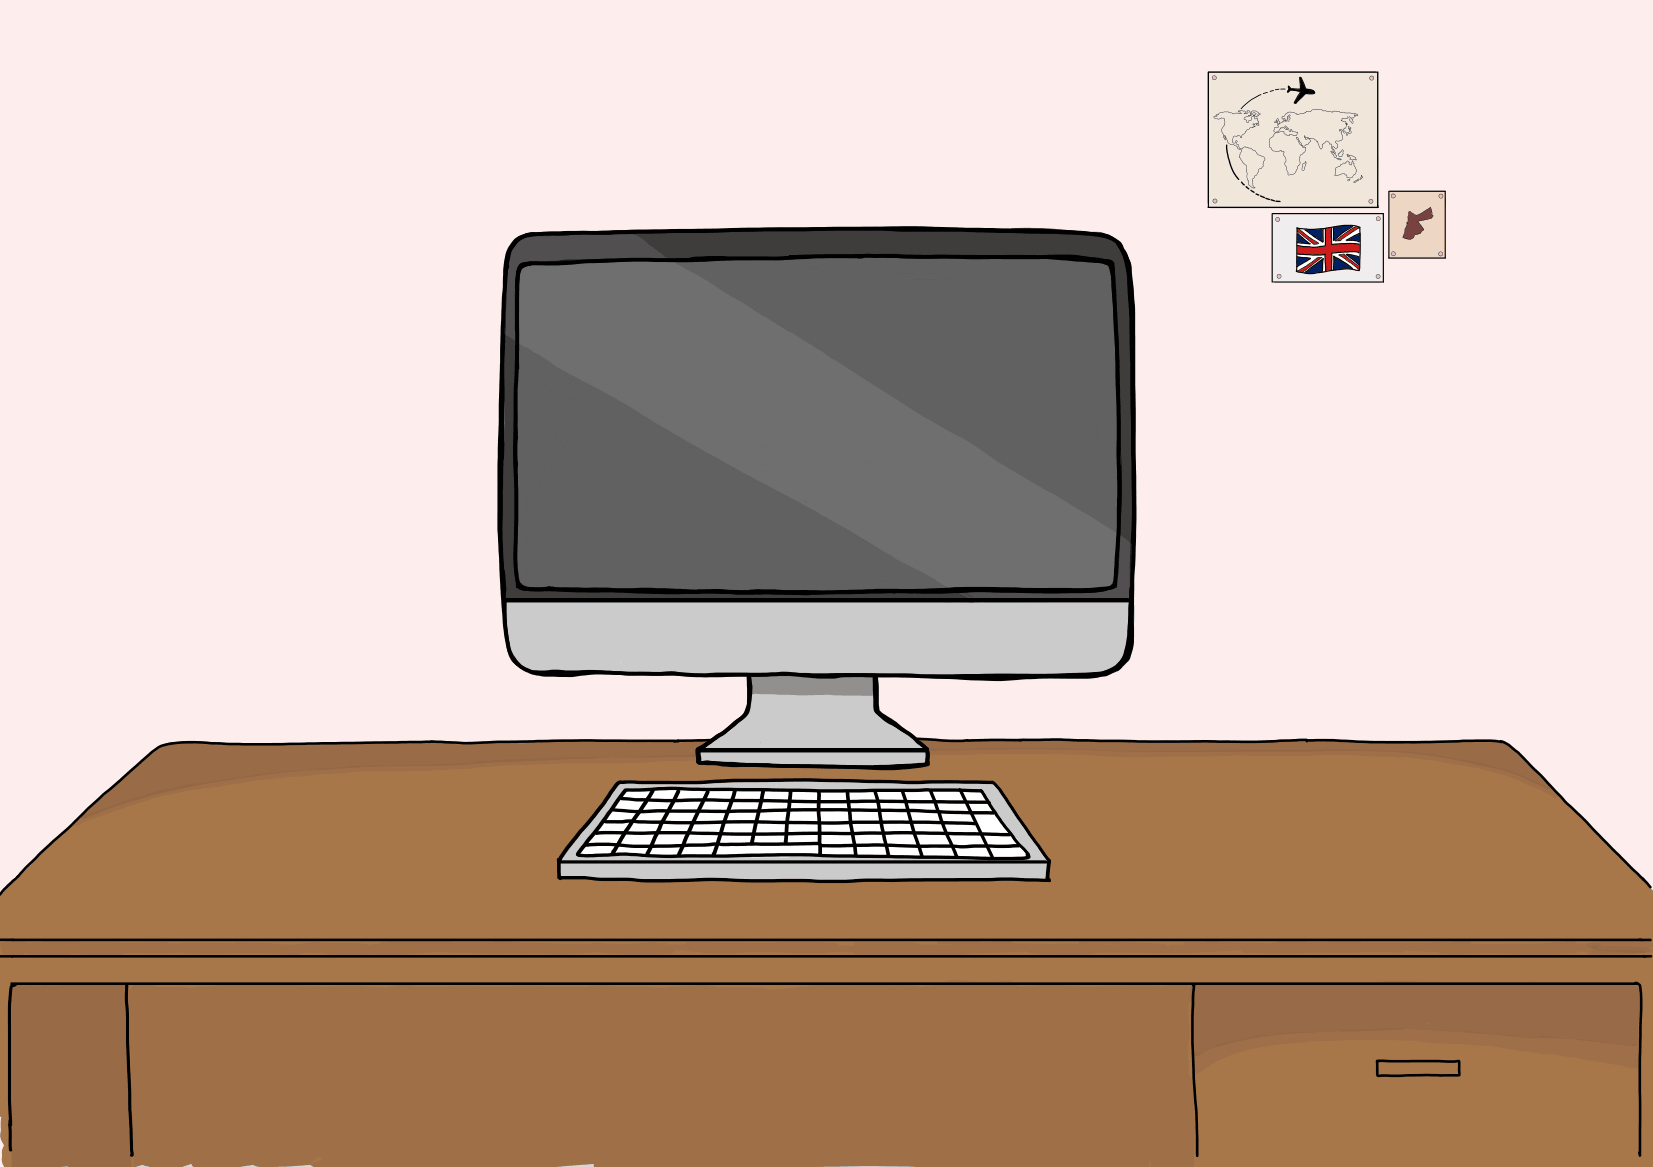
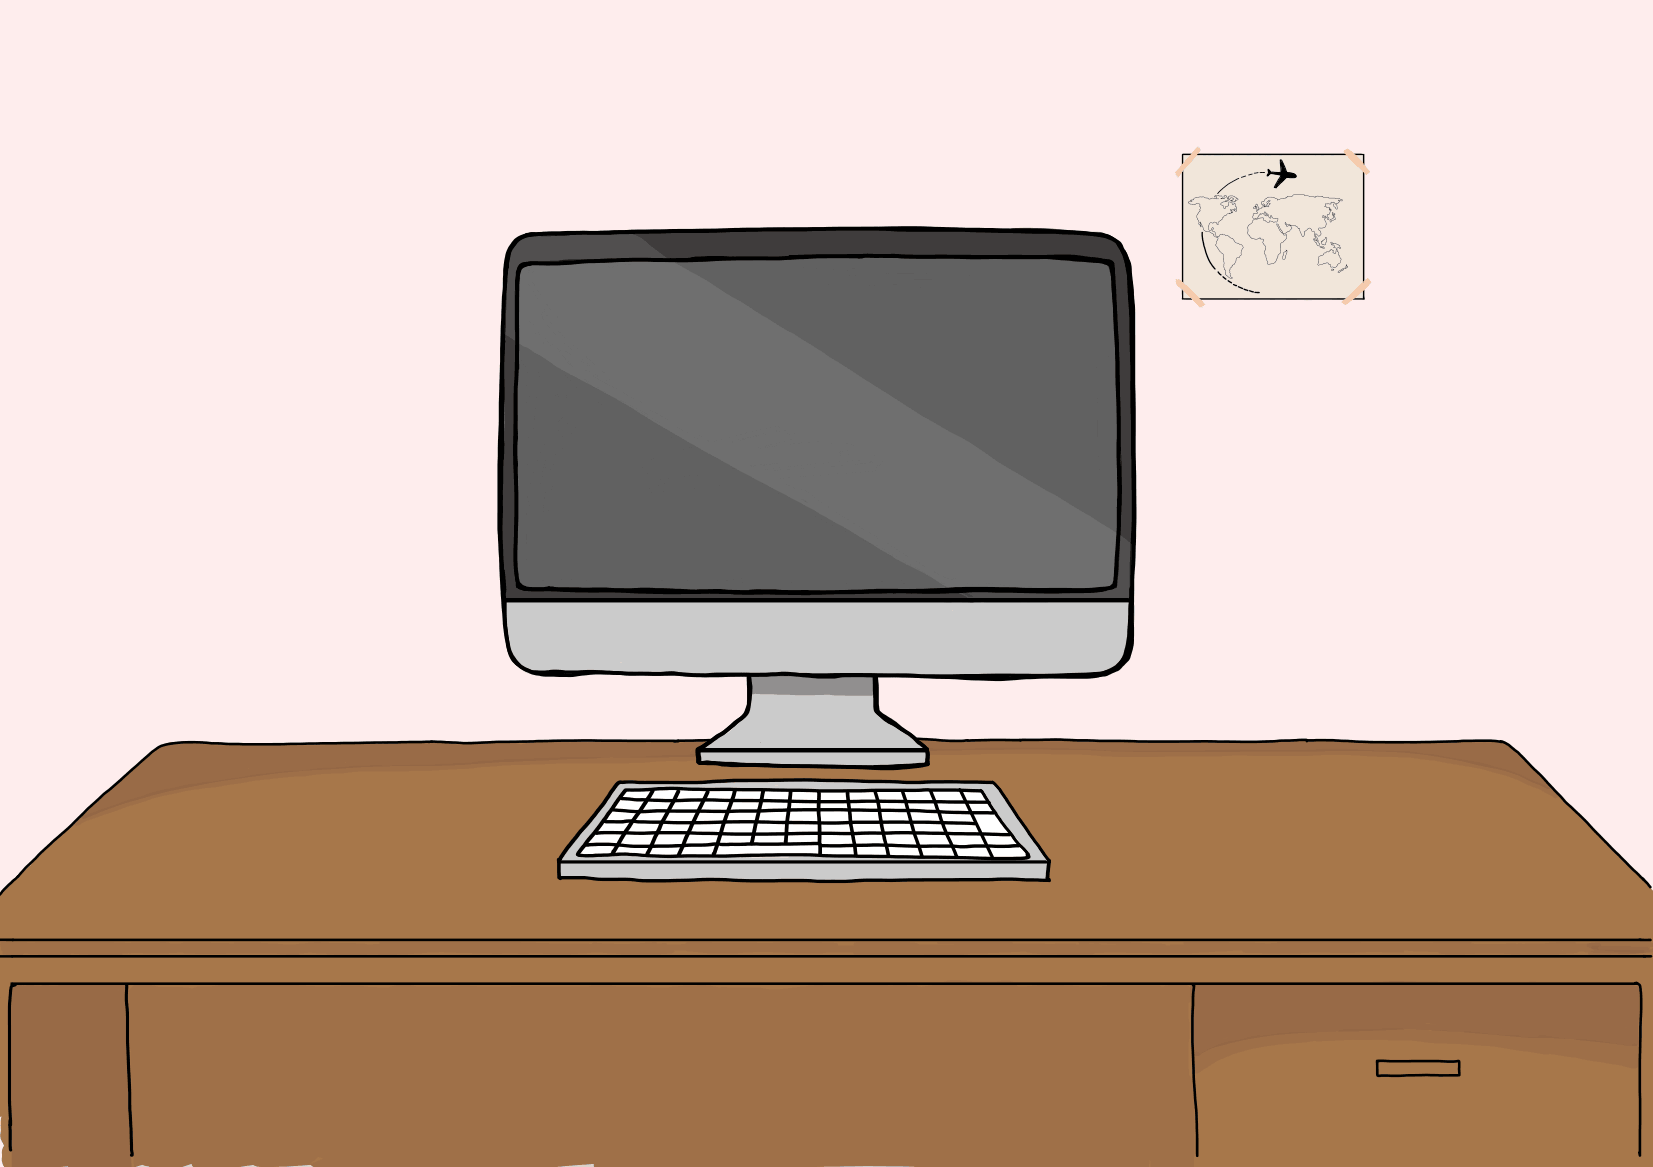
some fixes

Changed region(s): [[0.7096, 0.0617, 0.8947, 0.2776]]

diff --git a/style.css b/style.css
@@ -103,15 +103,14 @@ body {
     top: 50%;
     left: 50%;
     width: max-content;
-    max-width: 90%;
+    max-width: 94%;
     margin: 0;
     padding: 0;
     color: #bcc2cc;
-    font-family: 'Courier New', monospace;
-    /* font-size: clamp(0.6rem, 1.35vw, 1.2rem); */
-    font-size: clamp(0.55rem, 2.4cqw, 1.2rem);
+    font-family: "Courier New", monospace;
+    font-size: clamp(0.7rem, 3.6cqw, 1.7rem);
     font-weight: 600;
-    line-height: 1.7;
+    line-height: 1.55;
     text-align: left;
     opacity: 1;
     transform: translate(-50%, -50%);
@@ -205,13 +204,13 @@ body {
     overflow: hidden;
     white-space: nowrap;
     color: #F4C9D6;
-    border-right: 2px solid #f4c9d6;
+    border-right: 2px solid transparent;
+    opacity: 0;
     font-family: 'Courier New', monospace;
     font-size: clamp(1rem, 8cqw, 4rem);
     /* font-weight: 500; */
     line-height: 1.05;
     text-shadow: 0 2px 6px rgb(38 21 13 / 45%);
-    /* opacity: 0; */
     /* transform: translate(-50%, -50%); */
     /* z-index: 3; */
     animation: show-name 0.01s linear 4.3s forwards, type-name 1.5s steps(12, end) 4.3s forwards, blink-name-cursor 0.7s step-end 4.3s infinite, hide-name-cursor 0.01s linear 5.9s forwards;
@@ -475,6 +474,7 @@ body {
 @keyframes show-name {
     to {
         opacity: 1;
+        border-right-color: #f4c9d6;
     }
 }
 
